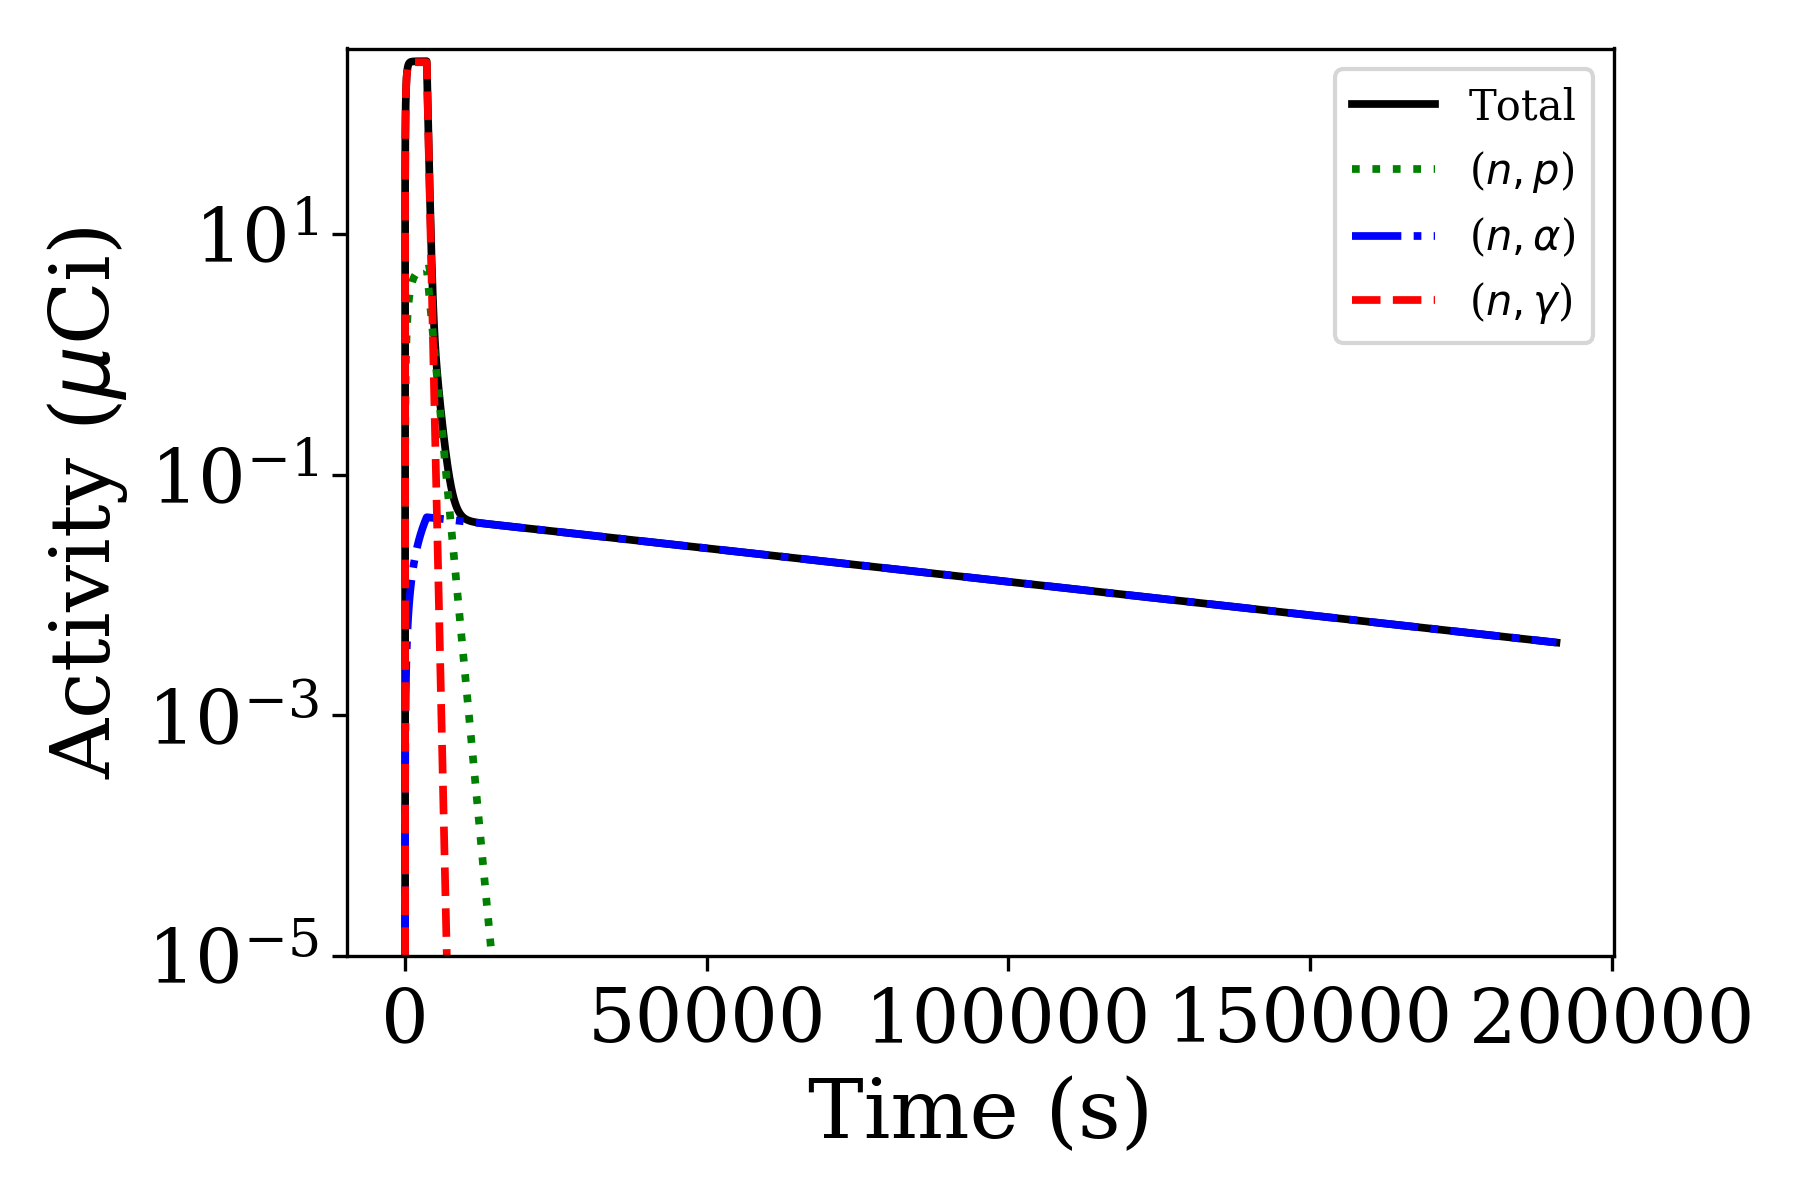
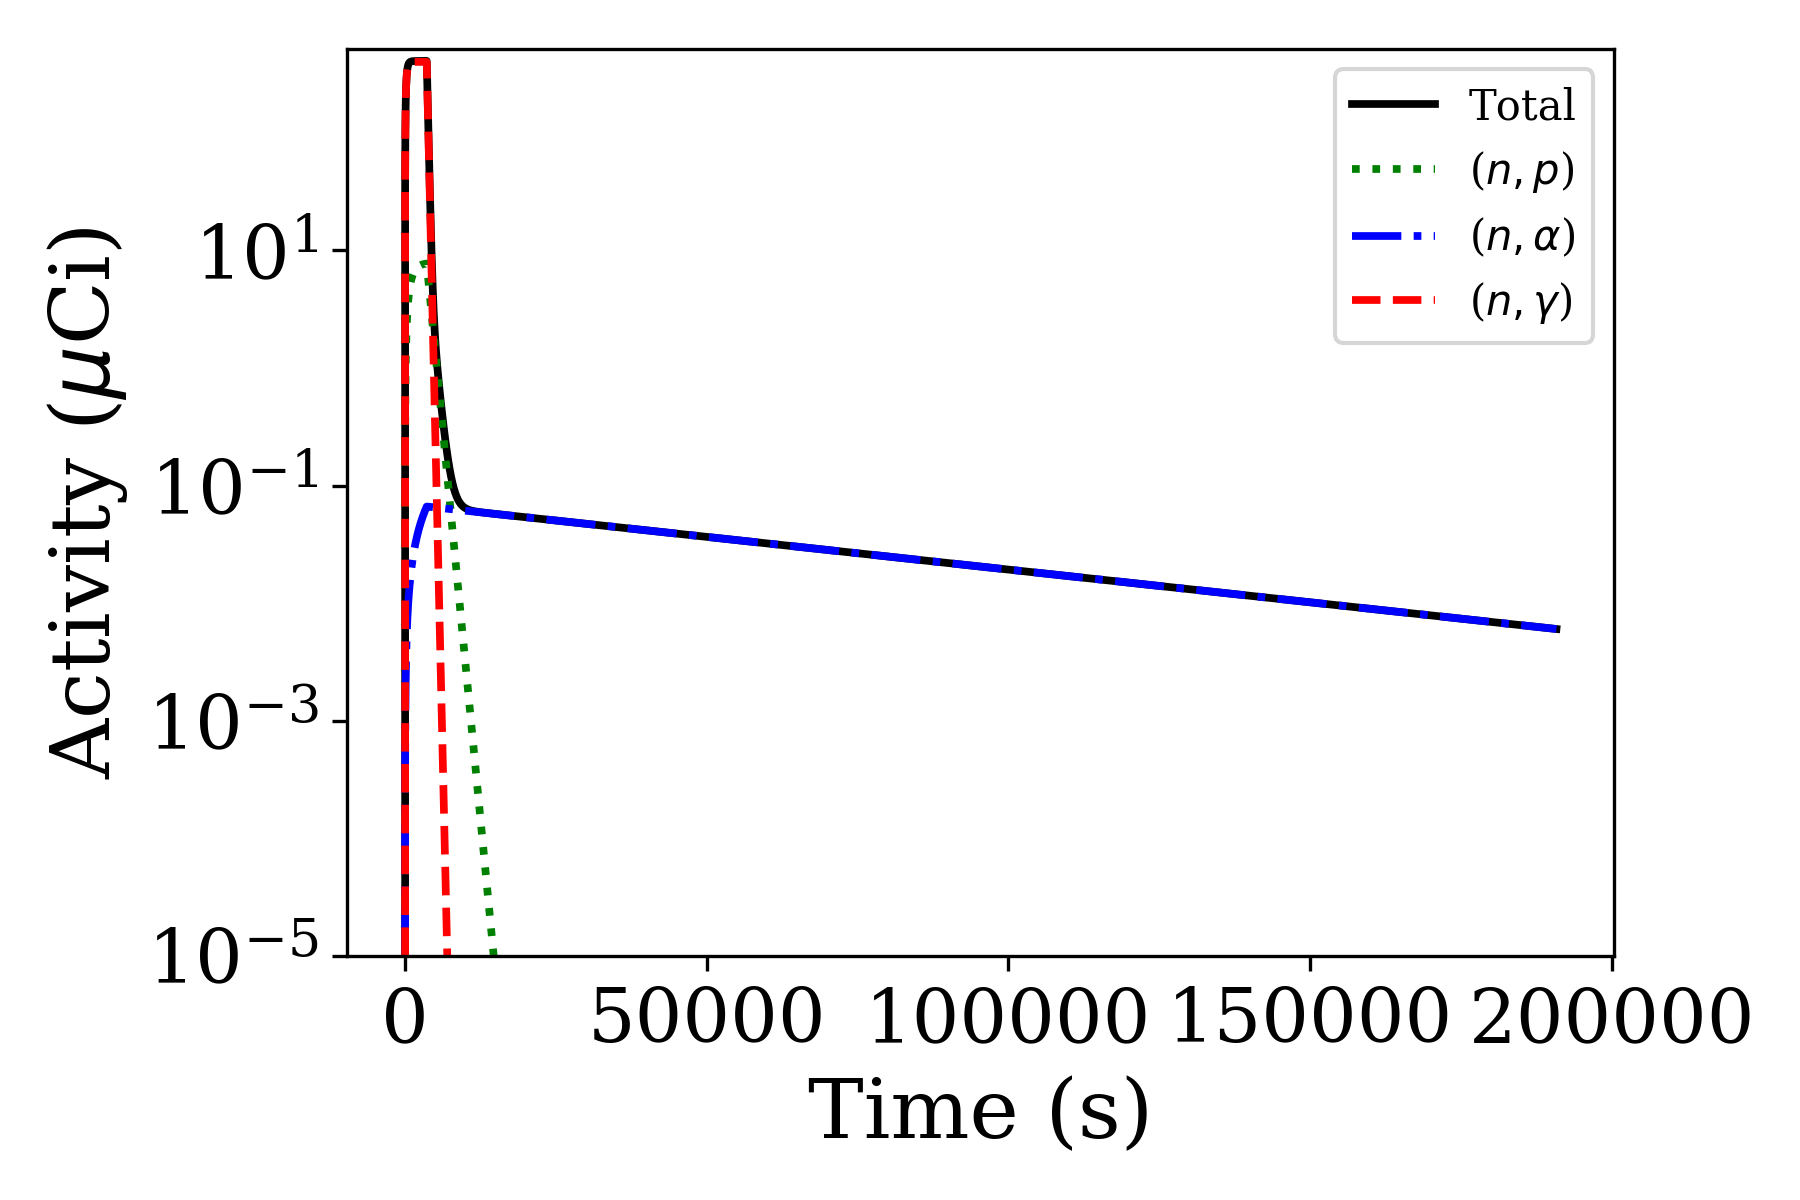
set irradiation, count times for next experiment

diff --git a/source/theoretical_7_11_18.py b/source/theoretical_7_11_18.py
@@ -19,15 +19,16 @@ def run(rerun_all):
     #                                rhodium
     ###############################################################################
 
-    if False or rerun_all:
+    if True or rerun_all:
         wand = Wand()
         wand.name = 'rhodium'
         wand.mat = 'Rh'
         wand.cd = False
-        wand.masses = np.array([0.5, 0.5, 0.5, 0.5])  # mg
+        stack_height = 5
+        wand.masses = np.array([0.5, 0.5, 0.5, 0.5]) * stack_height  # mg
         wand.t_i = 60  # s
-        wand.t_w = 3600*2  # s
-        wand.counting_time = 300
+        wand.t_w = 3600*1  # s
+        wand.counting_time = 600
         wand.P = 100  # kW(th)
         wand.irradiate(False)
         data.update(wand.package_data())
@@ -35,15 +36,15 @@ def run(rerun_all):
     ###############################################################################
     #                              aluminum
     ###############################################################################
-    if True or rerun_all:
+    if False or rerun_all:
         wand = Wand()
         wand.name = 'aluminum'
         wand.mat = 'Al'
         wand.cd = False
-        stack_height = 10
-        masses = np.array([0.2, 0.2, 0.2, 0.2]) * stack_height
+        stack_height = 5
+        masses = np.array([0.6, 0.6, 0.6, 0.6]) * stack_height
         wand.masses = masses  # mg
-        wand.t_i = 3600  # s
+        wand.t_i = 3600 * 1  # s
         wand.t_w = 3600*24*2  # s
         wand.counting_time = 3600
         wand.P = 100  # kW(th)
@@ -57,26 +58,10 @@ def run(rerun_all):
         wand = Wand()
         wand.name = 'indium'
         wand.mat = 'In'
-        wand.cd = False
-        wand.masses = np.array([1.7, 1.5, 1.4, 1.6])  # mg
-        wand.t_i = 60  # s
-        wand.t_w = 8*3600 + 40*60  # s
-        wand.counting_time = 60
-        wand.P = 100  # kW(th)
-        wand.irradiate(False)
-        data.update(wand.package_data())
-
-    ###############################################################################
-    #                                gold (cd)
-    ###############################################################################
-    if False or rerun_all:
-        wand = Wand()
-        wand.name = 'indium'
-        wand.mat = 'In'
         wand.cd = True
-        wand.masses = np.array([3.9, 3.3, 3.4, 3.9])  # mg
-        wand.t_i = 60  # s
-        wand.t_w = 3600*2 + 40*60  # s
+        wand.masses = np.array([1.7, 1.5, 1.4, 1.6])  # mg
+        wand.t_i = 30  # s
+        wand.t_w = 8*3600 + 40*60  # s
         wand.counting_time = 300
         wand.P = 100  # kW(th)
         wand.irradiate(False)
@@ -87,11 +72,11 @@ def run(rerun_all):
         pickle.dump(data, F)
 
 if __name__ == '__main__':
-    run(False)
+    run(True)
 
-with open(dataname, 'rb') as F:
-    data = pickle.load(F)
+    with open(dataname, 'rb') as F:
+        data = pickle.load(F)
 
-for key, val in data.items():
-    counts = val.peak_area
-    print(key, counts, np.sqrt(counts) / counts)
+    for key, val in data.items():
+        counts = val.peak_area
+        print('{:>6}  {:4.2e}  {:5.4f}'.format(key, counts, np.sqrt(counts) / counts))

diff --git a/source/hpge.py b/source/hpge.py
@@ -10,8 +10,8 @@ def hpge_efficiency1(e):
 
 
 def hpge_efficiency(e):
-    erg = np.array([60, 86.5, 105.3, 176.3, 427.90, 600.6, 834.8, 1173.2, 1332.5])
-    eff = np.array([2.39e-2, 7.5e-2, 9.27e-2, 9.35e-2, 4.77e-2, 3.51e-2, 2.64e-2, 1.87e-2, 1.69e-2])
+    erg = np.array([0, 60, 86.5, 105.3, 176.3, 427.90, 600.6, 834.8, 1173.2, 1332.5])
+    eff = np.array([0, 2.39e-2, 7.5e-2, 9.27e-2, 9.35e-2, 4.77e-2, 3.51e-2, 2.64e-2, 1.87e-2, 1.69e-2])
     efficiency = interp1d(erg, eff, fill_value='extrapolate')
     return efficiency(e)
 
